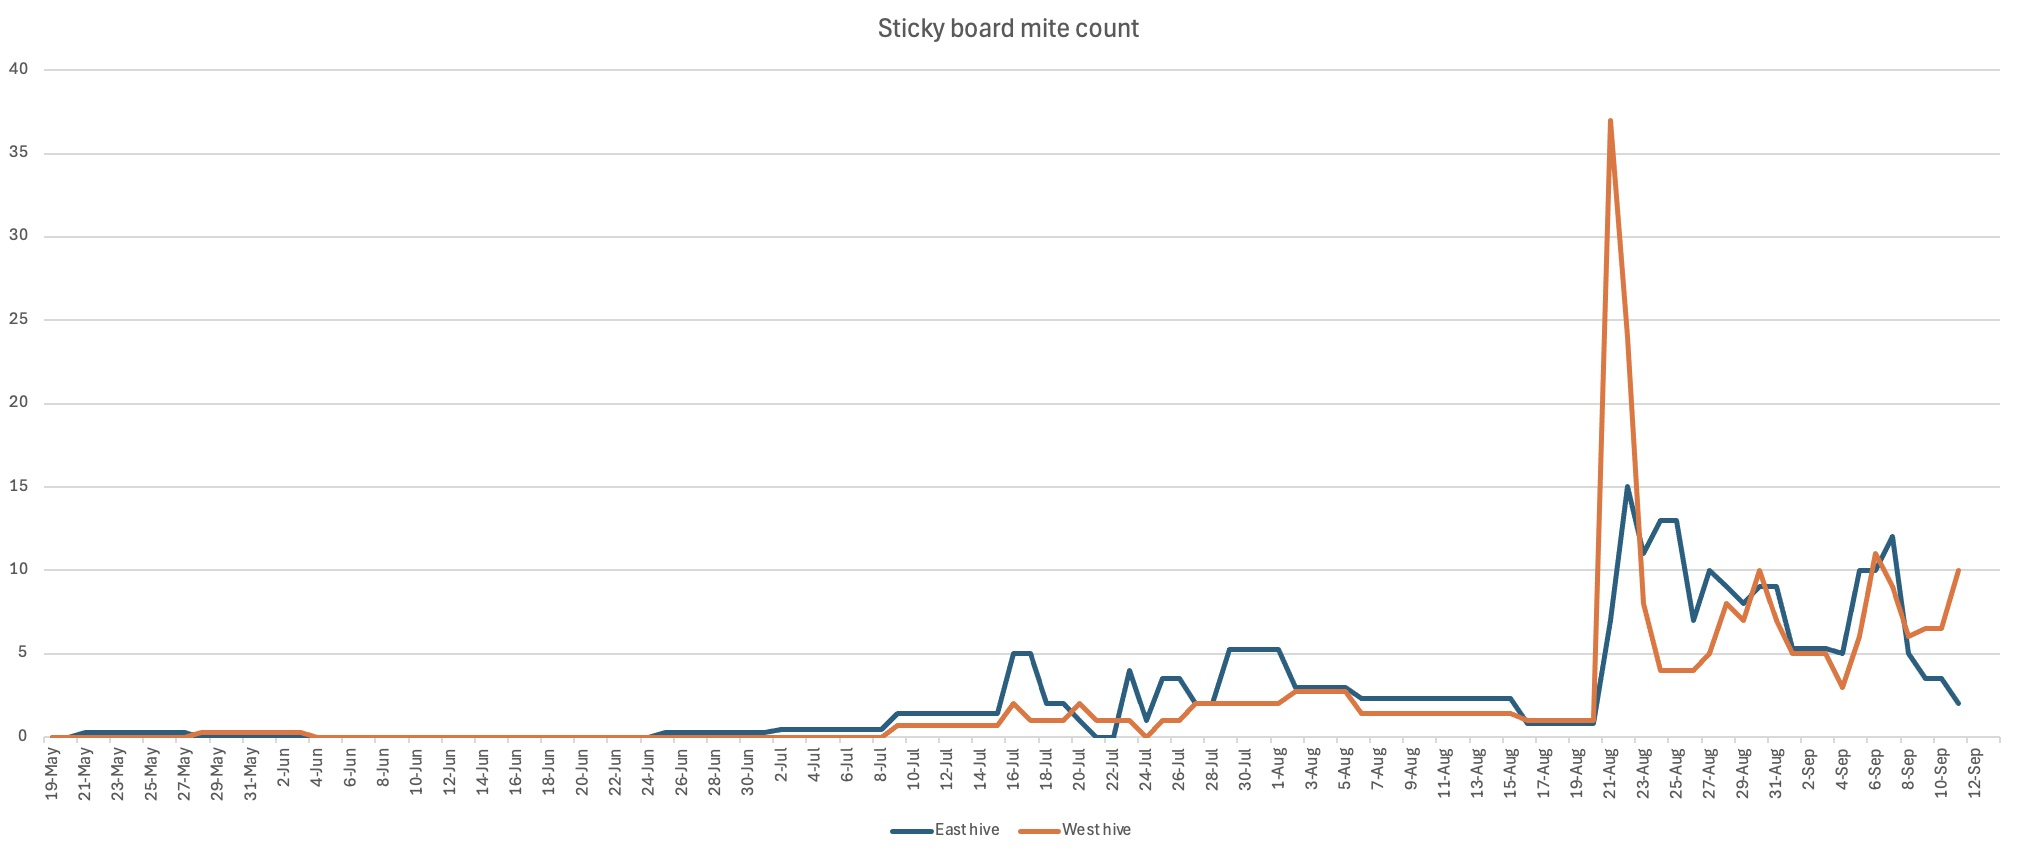
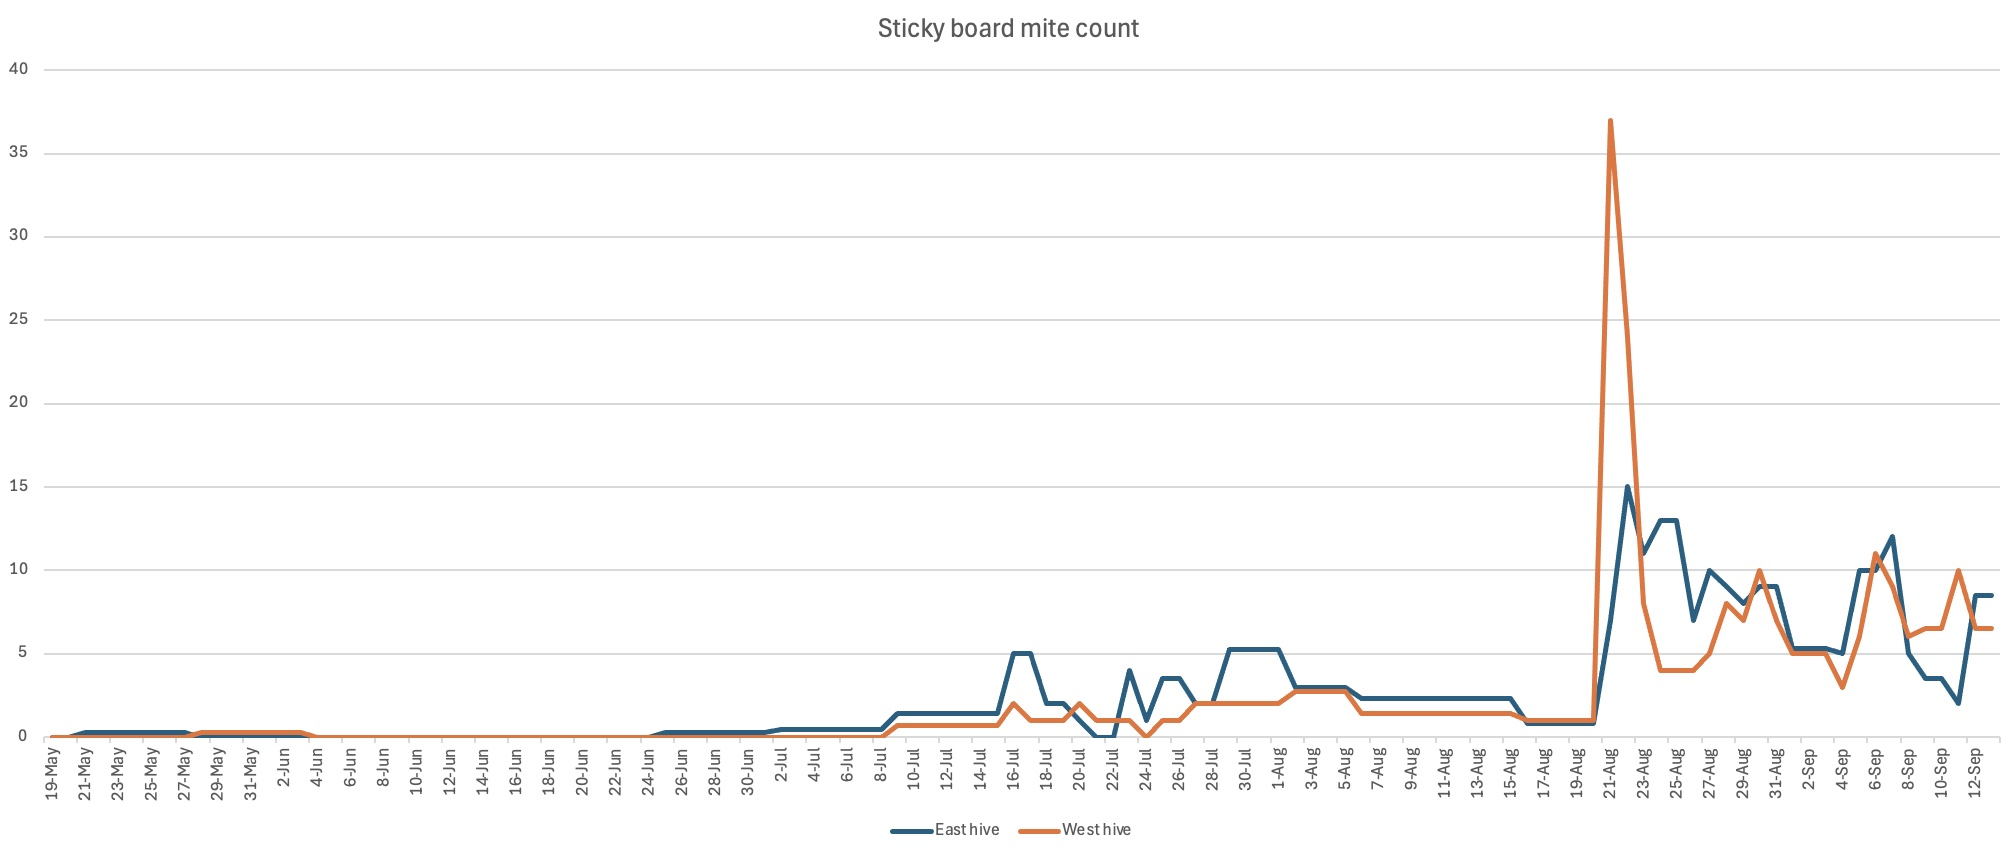
added updates

Changed region(s): [[0.0, 0.1519, 1.0, 0.972], [0.4314, 0.0, 0.5855, 0.0607]]

diff --git a/_posts/2024-09-12-inspection.md b/_posts/2024-09-12-inspection.md
@@ -1,0 +1,33 @@
+---
+title: "Inspection"
+date: 2024-09-06
+---
+
+
+- Time: ~14.00
+- Temp: ~65F, cloudy
+
+### East nuc
+
+- Temperament: calm, no smoke needed
+- Eggs, larvae, and capped brood present.
+- Open nectar, full frames of capped honey, and some pollen
+- Honey super, 4 full frames
+- Removed drone frame and put in the freezer
+
+### Middle nuc
+
+- Temperament: calm
+- Eggs, larvae, and capped brood present.
+- Open nectar, capped honey, and pollen
+- This is a new colony that was apparently a swarm in July
+- There are only about 5 frames of bees
+- The hive is 2 deep boxes, but they're only using a couple of frames in the bottom box
+- Feeding 22% honey and pollen patty
+
+### West nuc
+
+- Temperament: calm, no smoke needed
+- Green dot frame looks good.
+- Queen is laying in the upper box now. Young larvae in cells where there was no capped brood and nectar around the edges.
+- Started feeding 1:1 again, per advice from experienced beekeeper

diff --git a/_posts/2024-09-13-mite-check.md b/_posts/2024-09-13-mite-check.md
@@ -1,0 +1,18 @@
+---
+title: "Mite Check"
+date: 2024-09-13
+---
+
+- Time: ~08.00
+- Temp: ~53F, cloudy
+
+### East nuc
+
+- Bottom board had 17 mites
+- Wiped and re-oiled the bottom board.
+
+### West nuc
+
+- Bottom board had 13 mites
+- Wiped and re-oiled the bottom board.
+
